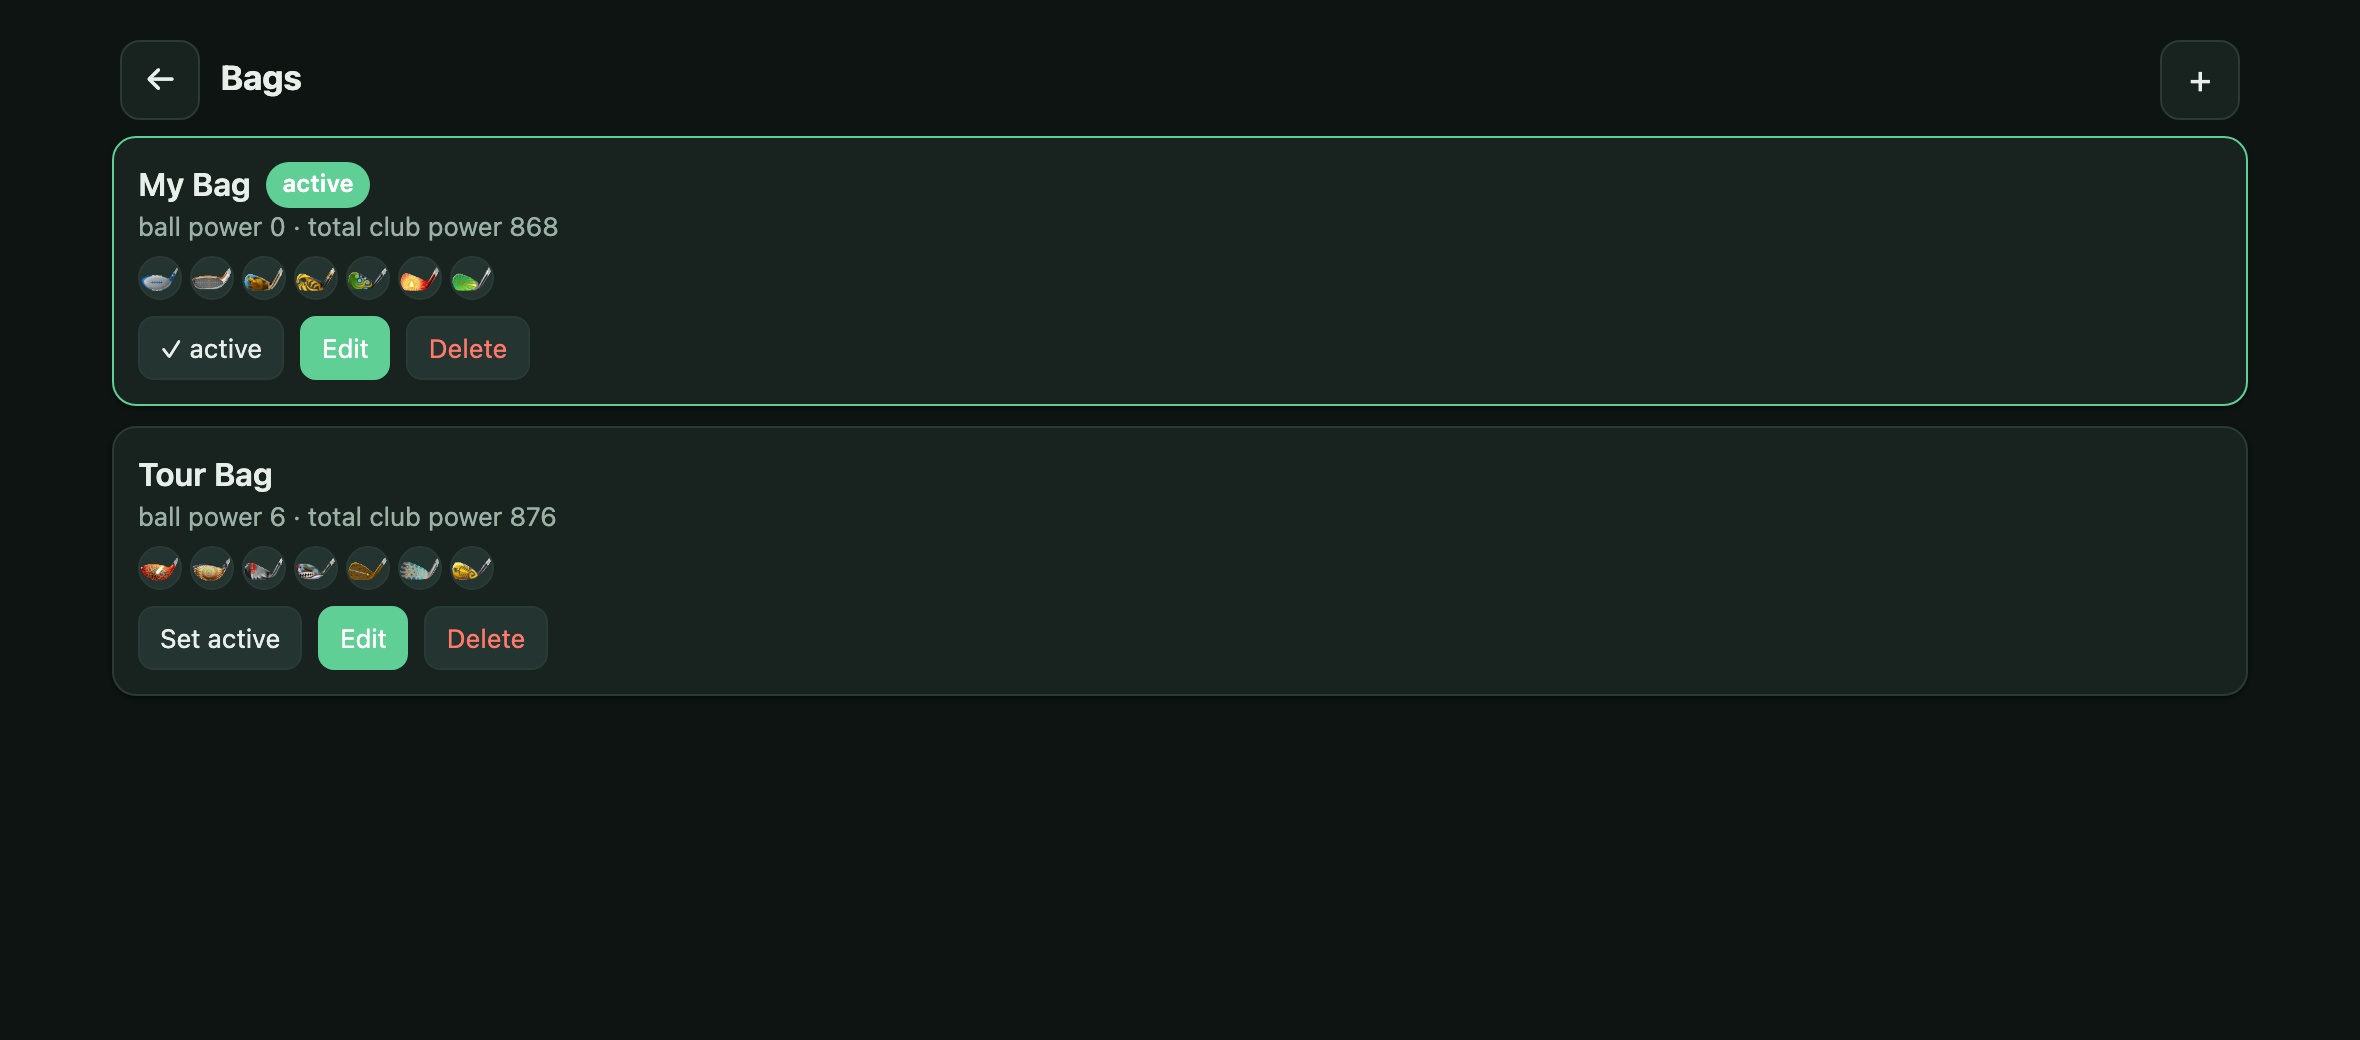
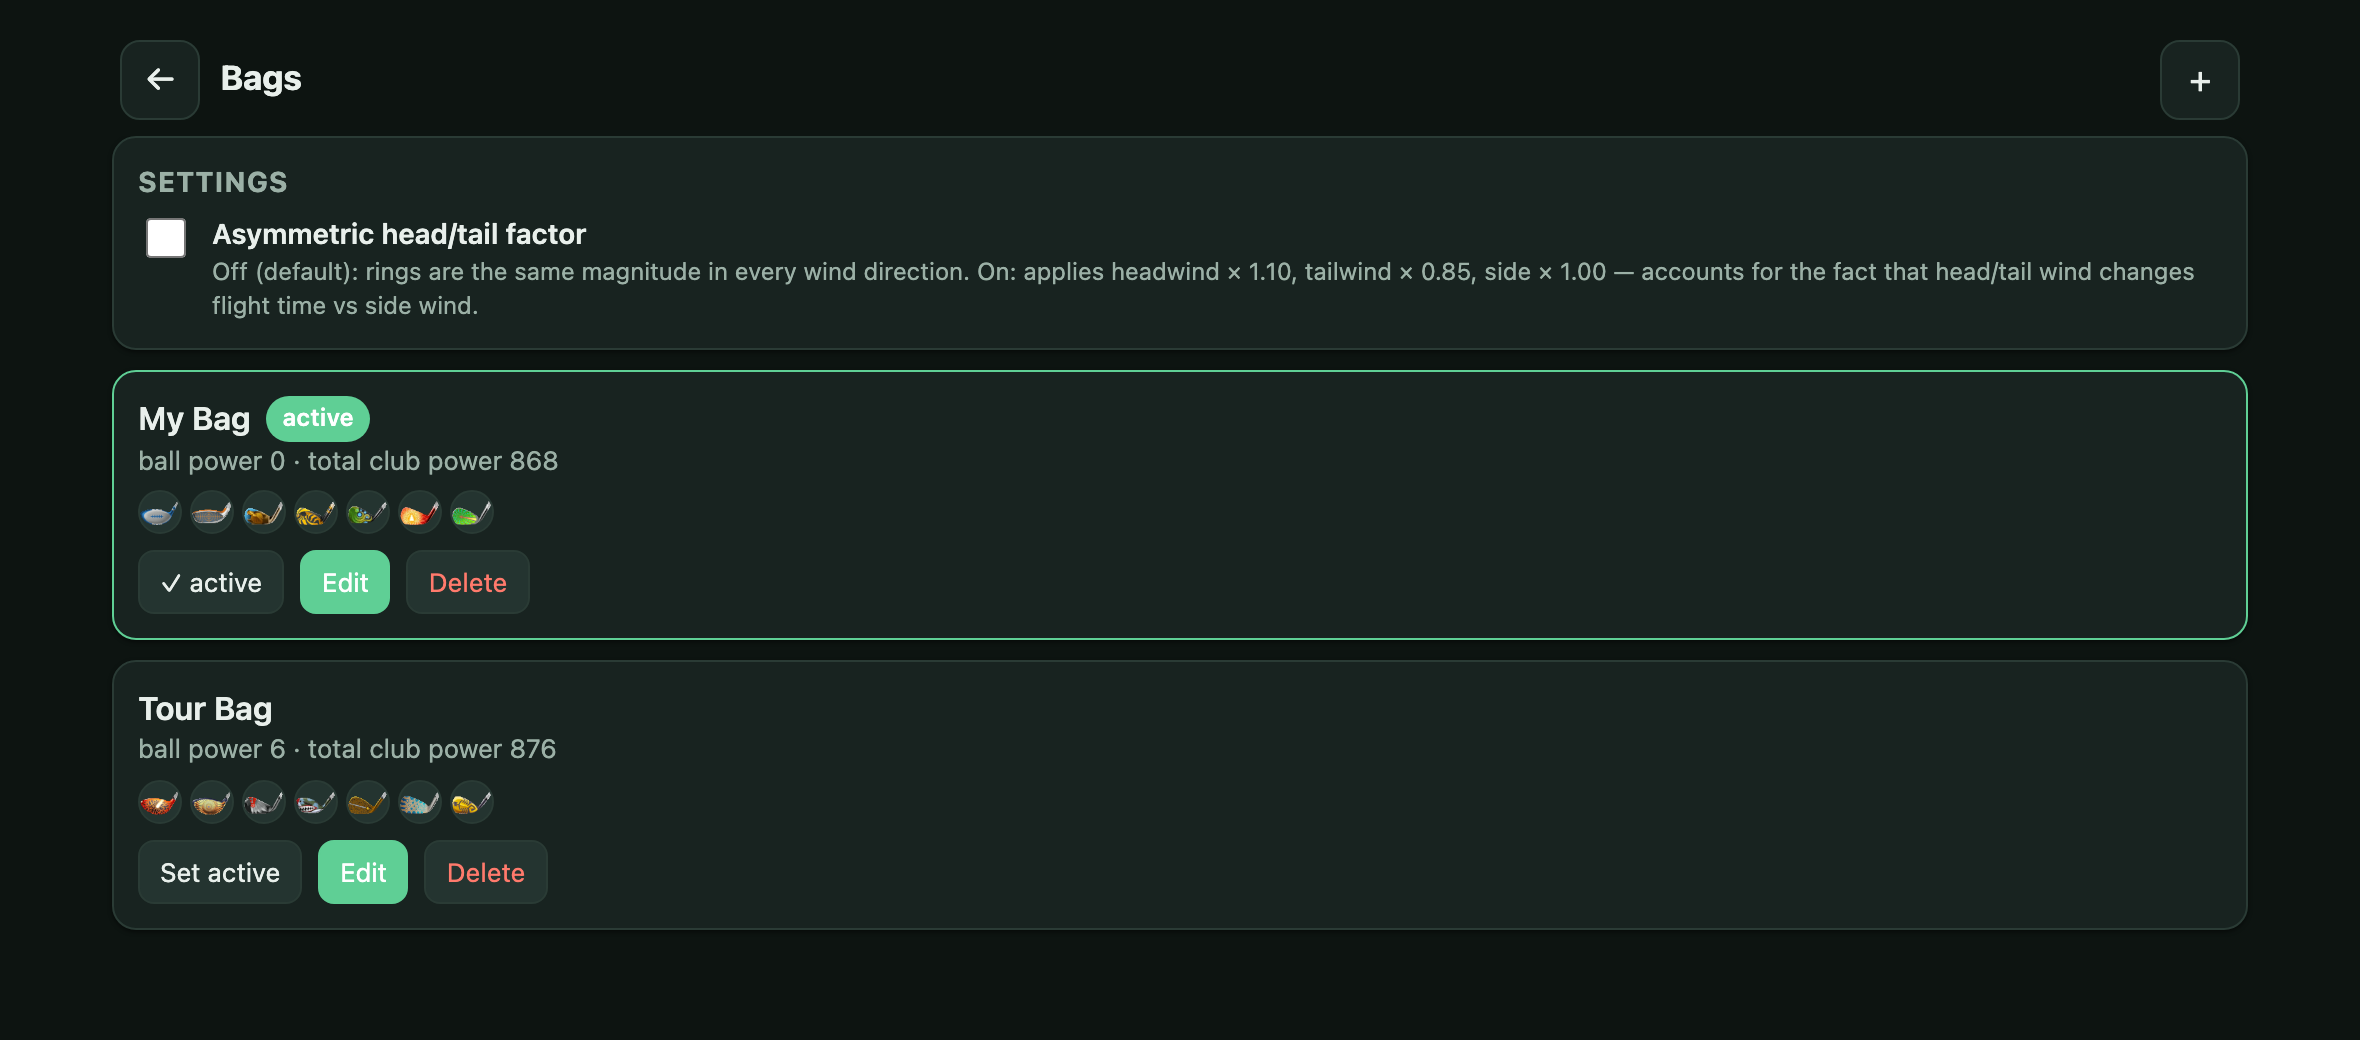
Add Settings: asymmetric head/tail factor toggle (default off)
User insight: tailwind shortens flight time (lower apparent airspeed
→ less drag/lift → less time in the air), so a ring formula calibrated
to lateral-wind displacement OVER-compensates for tailwind. Headwind
does the opposite (longer flight → under-compensates). The 0.6–1.0
community spread reflects players empirically backing off without
naming the mechanism.

Implementation:
- Default off → factor = 1.0 for all directions (matches the
  rotate-camera workflow; what we just shipped).
- Toggle on → smooth s²+c² interpolation:
    pure side          1.00
    pure tail          0.85
    pure head          1.10
    45° tail-side      ~0.93
    45° head-side      ~1.05

Storage:
- localStorage key `gc.settings` (independent of bag data), default
  { asymmetric: false }. Helpers getSettings/getSetting/setSetting.

UI:
- New "Settings" card at the top of the Bags page (above the bag list).
  Single checkbox row with name + explanation. Accent-colored checkbox.
- No play-view UI changes when off (factor is silently 1.0).
- When on, the pin recommendation card's math breakdown appends
  "× 0.85 dir" / "× 1.10 dir" so the user can see the factor at work.

Verified across all 6 cardinal/intercardinal directions at 8.8 MPH:
  N tailwind 7.2, NE 7.8, E side 8.5, SE 8.9, S headwind 9.3, W side 8.5
— smooth monotonic interpolation between 0.85 and 1.10.

SW bumped to gc-wind-v10.

Changed region(s): [[0.0309, 0.1538, 0.928, 0.6462], [0.0309, 0.6769, 0.2475, 0.8923]]

diff --git a/index.html b/index.html
@@ -321,6 +321,12 @@
 
     /* Bags page */
     .bag-list { display: flex; flex-direction: column; gap: 10px; }
+    .settings-card { margin-bottom: 10px; }
+    .setting-row { display: flex; align-items: flex-start; gap: 10px; cursor: pointer; }
+    .setting-row input[type=checkbox] { width: 20px; height: 20px; margin-top: 2px; accent-color: var(--accent); flex: 0 0 auto; }
+    .setting-meta { flex: 1; min-width: 0; }
+    .setting-name { font-size: 14px; font-weight: 600; }
+    .setting-desc { font-size: 12px; color: var(--text-dim); margin-top: 2px; line-height: 1.4; }
     .bag-card {
       background: var(--surface); border: 1px solid var(--border); border-radius: var(--r);
       padding: 12px; box-shadow: var(--shadow);
@@ -516,6 +522,16 @@
         <div class="title grow">Bags</div>
         <button class="icon-btn" id="new-bag" title="New bag">+</button>
       </header>
+      <div class="card settings-card">
+        <h3>Settings</h3>
+        <label class="setting-row">
+          <input type="checkbox" id="setting-asymmetric">
+          <div class="setting-meta">
+            <div class="setting-name">Asymmetric head/tail factor</div>
+            <div class="setting-desc">Off (default): rings are the same magnitude in every wind direction. On: applies headwind × 1.10, tailwind × 0.85, side × 1.00 — accounts for the fact that head/tail wind changes flight time vs side wind.</div>
+          </div>
+        </label>
+      </div>
       <div id="bag-list" class="bag-list"></div>
     </section>
 
@@ -636,6 +652,18 @@
     }
     function saveInputs() { LS.set("gc.lastInputs", state.inputs); }
 
+    // App-wide settings (independent of bags). Default off.
+    const SETTINGS_DEFAULTS = { asymmetric: false };
+    function getSettings() {
+      return Object.assign({}, SETTINGS_DEFAULTS, LS.get("gc.settings", {}));
+    }
+    function getSetting(key) { return getSettings()[key]; }
+    function setSetting(key, value) {
+      const s = getSettings();
+      s[key] = value;
+      LS.set("gc.settings", s);
+    }
+
     // ============================== Formula ================================
     function ringsPerMph(category, power, accuracy, actualCarry, clubName, level, ballPower) {
       const base = 3 - accuracy / 50;
@@ -644,16 +672,28 @@
       return (actualCarry * BALL_COEF[ballPower]) /
              (CATEGORY_MAX[category] * base * catMult * corr);
     }
-    // Rings represent total ball displacement from the aim point. Wind
-    // displaces the ball by a magnitude proportional to wind speed —
-    // independent of direction. Only the PULL DIRECTION differs:
-    //   side wind   -> pull rings sideways (into wind)
-    //   headwind    -> pull rings forward  (ball flies short; aim past)
-    //   tailwind    -> pull rings backward (ball flies long; aim short)
-    //   diagonal    -> at the corresponding angle
-    // So the multiplier is always 1; the compass + dir label tell the
-    // user which way to pull.
-    function directionFactor(_deg) { return 1; }
+    // Rings represent total ball displacement from the aim point.
+    // DEFAULT: magnitude is direction-independent (factor = 1), and the
+    // compass + dir label only tell the user which way to pull.
+    //
+    // OPTIONAL ("asymmetric head/tail factor" in Settings): account for
+    // the fact that head/tail wind changes flight time differently than
+    // side wind. Tailwind shortens flight (less wind effect → smaller
+    // factor); headwind lengthens flight (more wind effect → bigger
+    // factor). Interpolated by s²+c² = 1:
+    //     pure side   -> 1.00
+    //     pure tail   -> 0.85
+    //     pure head   -> 1.10
+    //     45° tail-side -> ~0.93
+    //     45° head-side -> ~1.05
+    function directionFactor(deg) {
+      if (!getSetting('asymmetric')) return 1;
+      const rad = deg * Math.PI / 180;
+      const c = Math.cos(rad);
+      const s = Math.sin(rad);
+      const headTail = c > 0 ? 0.85 : 1.10; // c>0 = tailwind side
+      return s*s * 1.0 + c*c * headTail;
+    }
     function compassName(deg) {
       // 8-point compass for the named cardinals/intercardinals + degrees
       // for everything in between. With 24 arrows at 15° steps, the
@@ -805,6 +845,8 @@
       if (!pin) return { html: "", matchedCat: null, exactRings: null };
       const mph = parseNum(state.inputs.mph);
       const dirF = directionFactor(state.inputs.dir);
+      // Only show the direction factor in the breakdown when it isn't 1.
+      const dirBreakdown = Math.abs(dirF - 1) > 0.001 ? ` × ${dirF.toFixed(2)} dir` : "";
 
       // Normal clubs: iterate shortest-first, so an exact boundary distance
       // (e.g. 166yd = Wood max) picks the SHORTER club (Wood at 100% slider)
@@ -827,7 +869,7 @@
               <span class="rec-arrow">→</span>
               <div class="rec-body">
                 <div class="rec-club"><strong>${DISPLAY[cat]} — ${escapeHtml(s.name)} ${s.level}</strong> · ${sliderPct.toFixed(0)}% slider</div>
-                <div class="rec-rings"><span class="rec-num mono">${fmt(rings)}</span> <span class="rec-unit">rings to pull</span> <span class="tiny dim">(${mph || 0} MPH × ${rPerMph.toFixed(2)} rings/mph)</span></div>
+                <div class="rec-rings"><span class="rec-num mono">${fmt(rings)}</span> <span class="rec-unit">rings to pull</span> <span class="tiny dim">(${mph || 0} MPH × ${rPerMph.toFixed(2)} rings/mph${dirBreakdown})</span></div>
               </div>
             </div>`;
           return { html, matchedCat: cat, exactRings: rings };
@@ -963,6 +1005,12 @@
             </div>
           </div>`;
       }).join("");
+      // Settings checkbox
+      const settingEl = $("#setting-asymmetric");
+      if (settingEl) {
+        settingEl.checked = getSetting('asymmetric');
+        settingEl.onchange = (e) => setSetting('asymmetric', e.target.checked);
+      }
     }
 
     function renderEdit() {

diff --git a/sw.js b/sw.js
@@ -3,7 +3,7 @@
 //   - Navigations (HTML): network-first with cache fallback → always fresh online,
 //     but works offline. Avoids stale UI after deploys.
 //   - Static assets (clubs.js, icons, manifest): cache-first.
-const CACHE = "gc-wind-v9";
+const CACHE = "gc-wind-v10";
 const SHELL = [
   "./",
   "./index.html",
